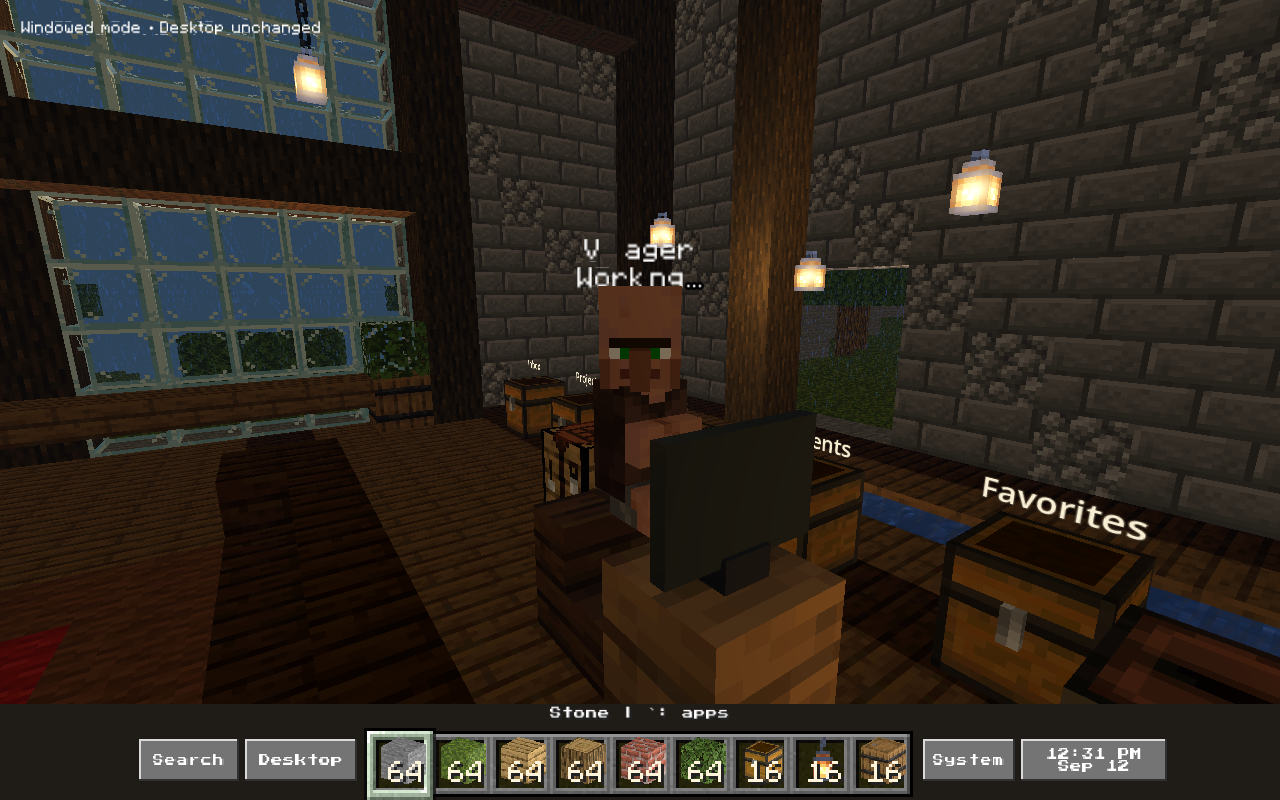
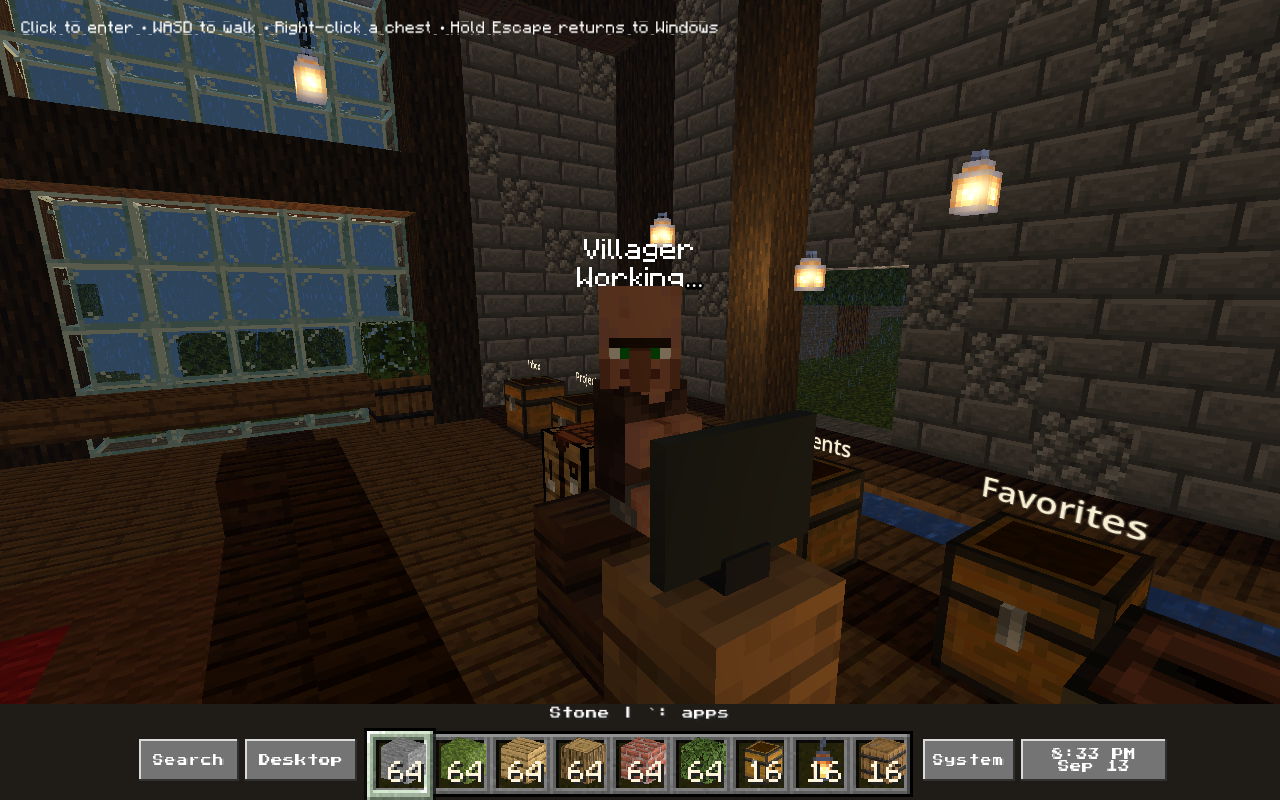
Restore narrow glyphs in 3D labels without changing UI font spacing

diff --git a/Game/Vanilla.cs b/Game/Vanilla.cs
@@ -3,6 +3,29 @@ namespace CozyCave;
 public partial class Main
 {
     private FontFile? minecraftFont;
+    private FontFile? minecraftWorldFont;
+    private FontFile MinecraftWorldFont()
+    {
+        if (minecraftWorldFont != null) return minecraftWorldFont;
+        // Label3D insets glyph UVs by half a texel at each edge. A one-pixel
+        // region collapses; two-pixel stems also clip. Include the transparent
+        // neighboring columns without changing the glyph's advance or origin.
+        // Use a separate cache: UI labels must retain their original font data.
+        minecraftWorldFont = (FontFile)MinecraftFont().Duplicate(true);
+        foreach (var size in minecraftWorldFont.GetSizeCacheList(0))
+        foreach (var glyph in minecraftWorldFont.GetGlyphList(0, size))
+        {
+            var uv = minecraftWorldFont.GetGlyphUVRect(0, size, glyph);
+            if (uv.Size.X < 1 || uv.Size.X > 2 || uv.Position.X < 1) continue;
+            var extent = minecraftWorldFont.GetGlyphSize(0, size, glyph);
+            var offset = minecraftWorldFont.GetGlyphOffset(0, size, glyph);
+            uv.Position -= new Vector2(1, 0); uv.Size += new Vector2(2, 0);
+            minecraftWorldFont.SetGlyphUVRect(0, size, glyph, uv);
+            minecraftWorldFont.SetGlyphSize(0, size, glyph, extent + new Vector2(2, 0));
+            minecraftWorldFont.SetGlyphOffset(0, size, glyph, offset - new Vector2(1, 0));
+        }
+        return minecraftWorldFont;
+    }
     private FontFile MinecraftFont()
     {
         if(minecraftFont!=null) return minecraftFont;

diff --git a/Game/VillagerTests.cs b/Game/VillagerTests.cs
@@ -10,6 +10,9 @@ public partial class Main
             System.IO.Directory.CreateDirectory(output);await Frames(30);
             Check(villager!=null,"Villager and workstation fit in existing cave without replacing contents");
             if(villager==null)throw new Exception("Villager could not spawn");
+            var font=MinecraftWorldFont();var glyph=font.GetGlyphIndex(8,'i',0);
+            Check(font.GetGlyphUVRect(0,new Vector2I(8,0),glyph).Size.X>=3,"World font retains a drawable region for narrow i glyph");
+            Check(font.GetStringSize("Villager Right-click",fontSize:25)==MinecraftFont().GetStringSize("Villager Right-click",fontSize:25),"World font padding preserves text advance and UI font spacing");
             if(bridge.Connected){for(int i=0;i<180 && workstationTexture==null;i++)await Frames(1);Check(workstationConnected && workstationTexture!=null,"Helper streams the live workstation into the in-world monitor");workstationTexture?.GetImage().SavePng(System.IO.Path.Combine(output,"monitor-live.png"));}
             Check(villagerLegs.Count==2 && Descendants(villagerHead).OfType<MeshInstance3D>().Count()==2,"Vanilla-textured villager has animated legs, head and nose");
             Check(villager.CollisionLayer==1 && villager.CollisionMask==5,"Villager collides with world and player");

diff --git a/Game/Villager.cs b/Game/Villager.cs
@@ -58,7 +58,7 @@ public partial class Main
         CatBox(villagerHead,new Vector3(0,.125f,.3125f),new Vector3(2,4,2),new Vector2(24,0),texture);
         CatBox(villagerPose,new Vector3(0,1.16f,.22f),new Vector3(8,4,4),new Vector2(40,38),texture);
         foreach(float x in new[]{-.125f,.125f}){var leg=new Node3D {Position=new Vector3(x,.75f,0)};villagerPose.AddChild(leg);CatBox(leg,new Vector3(0,-.375f,0),new Vector3(4,12,4),new Vector2(0,22),texture);villagerLegs.Add(leg);}
-        villagerLabel=new Label3D {Text="Villager",Position=new Vector3(0,2.25f,0),Font=MinecraftFont(),FontSize=25,PixelSize=.006f,Billboard=BaseMaterial3D.BillboardModeEnum.Enabled,NoDepthTest=false};villager.AddChild(villagerLabel);
+        villagerLabel=new Label3D {Text="Villager",Position=new Vector3(0,2.25f,0),Font=MinecraftWorldFont(),TextureFilter=BaseMaterial3D.TextureFilterEnum.Nearest,FontSize=25,PixelSize=.006f,Billboard=BaseMaterial3D.BillboardModeEnum.Enabled,NoDepthTest=false};villager.AddChild(villagerLabel);
         villagerVoice=new AudioStreamPlayer3D {UnitSize=2,MaxDistance=10,AttenuationFilterCutoffHz=20500};villager.AddChild(villagerVoice);
         villagerGoal=spawn;Changed();
     }

diff --git a/Game/Television.cs b/Game/Television.cs
@@ -87,7 +87,7 @@ public partial class Main
         tvMaterial=new StandardMaterial3D {AlbedoColor=tvOn?Colors.White:new Color("0c0e11"),AlbedoTexture=tvOn?tvTexture:null,ShadingMode=BaseMaterial3D.ShadingModeEnum.Unshaded,CullMode=BaseMaterial3D.CullModeEnum.Disabled};
         node.AddChild(new MeshInstance3D{Name="VideoScreen",Position=new Vector3(2,3,7.47f),RotationDegrees=new Vector3(0,180,0),Mesh=new QuadMesh{Size=new Vector2(3,1.6875f)},MaterialOverride=tvMaterial});
         Collider(node,new Vector3(2,3,7.44f),new Vector3(5,4,.04f),"$tv");
-        tvOffLabel=new Label3D {Text="TV\nClick to turn on",Position=new Vector3(2,3,7.40f),RotationDegrees=new Vector3(0,180,0),Font=MinecraftFont(),FontSize=30,PixelSize=.006f,Modulate=new Color("c4b792"),OutlineSize=0,Visible=!tvOn};node.AddChild(tvOffLabel);
+        tvOffLabel=new Label3D {Text="TV\nClick to turn on",Position=new Vector3(2,3,7.40f),RotationDegrees=new Vector3(0,180,0),Font=MinecraftWorldFont(),TextureFilter=BaseMaterial3D.TextureFilterEnum.Nearest,FontSize=30,PixelSize=.006f,Modulate=new Color("c4b792"),OutlineSize=0,Visible=!tvOn};node.AddChild(tvOffLabel);
     }
     private void TvCommand(string action)
     {
